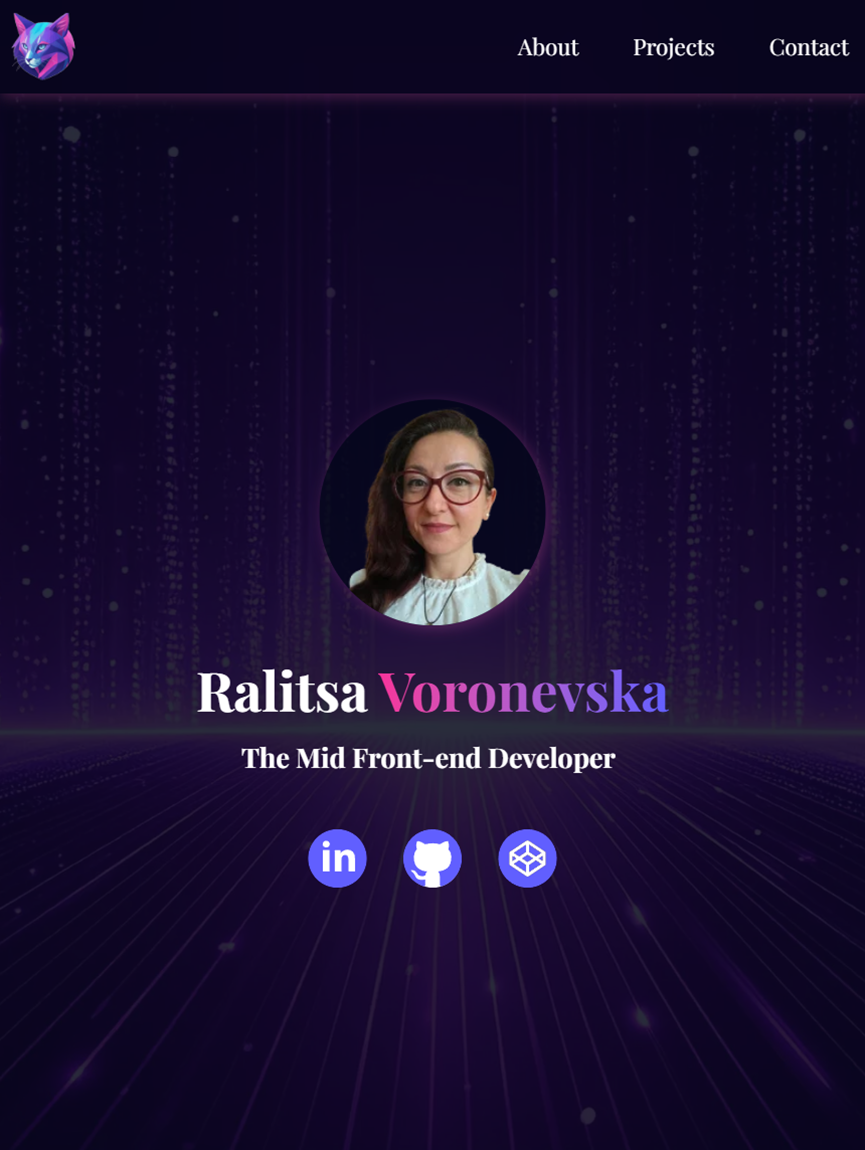
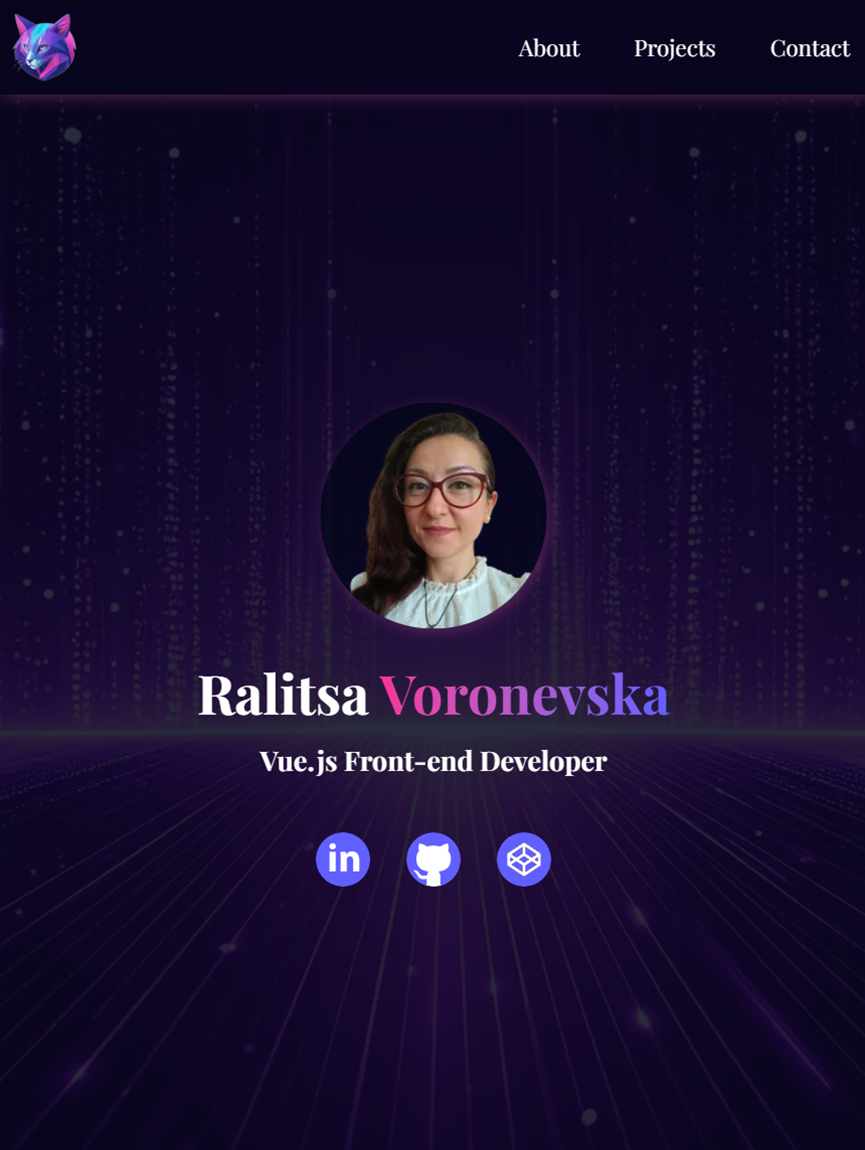
Polish About.vue

diff --git a/src/components/AboutMe.vue b/src/components/AboutMe.vue
@@ -8,19 +8,14 @@ const { aboutMeSubtitle, aboutMeDescription, skills, highlights } =
 
 <template>
   <!-- start of About Section -->
-  <section
-    id="about"
-    class="about-me mx-auto max-w-6xl px-4 py-8 text-slate-900 sm:px-6 md:py-12 lg:px-8 dark:text-slate-100"
-  >
+  <section id="about" class="about-me">
     <!-- headings -->
     <h2>About <span class="gradient-text">Me</span></h2>
     <h3>{{ aboutMeSubtitle }}</h3>
 
     <!-- Header: stacked + centered on mobile, side-by-side from sm: up -->
-    <div
-      class="mb-6 flex flex-col items-center gap-4 text-center sm:mb-8 sm:flex-row sm:items-start sm:gap-8 sm:text-left"
-    >
-      <HeroImage class="object-cover" />
+    <div class="hero-and-skills">
+      <HeroImage />
 
       <div class="rounded-lg w-full flex-1 shadow-3xl bg-slate-950/75 p-4">
         <p class="mb-6 leading-relaxed text-lg sm:leading-relaxed">
@@ -40,19 +35,13 @@ const { aboutMeSubtitle, aboutMeDescription, skills, highlights } =
     </div>
 
     <!-- Cards: 1 col on mobile, 2 on tablet, 3 from md: up -->
-    <div class="mb-6 grid grid-cols-1 gap-3 md:grid-cols-3">
-      <div
-        v-for="item in highlights"
-        :key="item.label"
-        class="rounded-lg shadow-3xl bg-slate-950/75 p-4"
-      >
-        <p
-          class="mb-1.5 flex items-center gap-1.5 text-xs text-slate-400 sm:text-[13px]"
-        >
+    <div class="highlights-container">
+      <div v-for="item in highlights" :key="item.label" class="highlight-card">
+        <p class="highlight-card-header">
           <span aria-hidden="true">{{ item.icon }}</span>
           {{ item.label }}
         </p>
-        <p class="text-sm leading-relaxed">{{ item.text }}</p>
+        <p class="highlight-card-text">{{ item.text }}</p>
       </div>
     </div>
 

diff --git a/src/assets/css/main.css b/src/assets/css/main.css
@@ -64,7 +64,7 @@
           @apply text-4xl md:text-5xl lg:text-6xl font-bold mb-2 md:mb-5;
         }
         h2 {
-          @apply text-xl md:text-2xl lg:text-3xl font-bold text-left mb-6 pl-4 md:pl-10 lg:pl-14;
+          @apply text-xl md:text-2xl lg:text-3xl font-bold mb-6;
         }
       }
     }
@@ -88,12 +88,23 @@
 
   /* About Me Section */
   .about-me {
-    @apply flex flex-col items-center justify-center text-center relative mx-3 pt-20 pb-20 scroll-mt-40;
-    .hero-skills-and-bio {
-      @apply flex flex-col lg:flex-row;
-    }
+    @apply flex flex-col items-center justify-center text-center relative pt-20 pb-20 scroll-mt-40
+    mx-auto max-w-6xl px-4 py-8 text-slate-900 sm:px-6 md:py-12 lg:px-8 dark:text-slate-100;
     .hero-and-skills {
-      @apply bg-slate-950/75 shadow-3xl rounded-2xl p-3 flex flex-col w-full lg:min-w-70 xl:min-w-90;
+      @apply mb-6 flex flex-col items-center gap-4 text-center sm:mb-8 sm:flex-row sm:items-start sm:gap-8 sm:text-left;
+    }
+
+    .highlights-container {
+      @apply mb-6 grid grid-cols-1 gap-3 md:grid-cols-3;
+      .highlight-card {
+        @apply rounded-lg shadow-3xl bg-slate-950/75 p-4;
+        .highlight-card-header {
+          @apply mb-1.5 flex items-center gap-1.5 text-xs text-slate-400 sm:text-[13px];
+        }
+        .highlight-card-text {
+          @apply text-sm leading-relaxed;
+        }
+      }
     }
     .btns-container {
       @apply flex items-center justify-center gap-2 my-4 mx-auto;

diff --git a/src/data/portfolio.ts b/src/data/portfolio.ts
@@ -121,7 +121,7 @@ export const PROJECTS: Project[] = [
     image: vuePortfolioImage,
     title: "Vue.js 3 Portfolio",
     description: "Original, built from scratch",
-    techDescription: "Modern Matrix-like Themed Portfolio",
+    techDescription: "Modern Matrix Themed Portfolio",
     techStack: [
       { name: "Vue.js", file_name: "vue-js" },
       { name: "Vite.js", file_name: "vite-js" },
@@ -201,7 +201,7 @@ export const PROJECTS: Project[] = [
   {
     image: monsterSlayerImage,
     title: "Monster Slayer Game",
-    description: "Give the Monster A Memorable Lesson",
+    description: "Give the Monster A Good Lesson",
     techDescription: "Battle sounds powered by Howler.js",
     techStack: [
       { name: "Vue.js", file_name: "vue-js" },
@@ -233,7 +233,7 @@ export const PROJECTS: Project[] = [
     image: pigGameImage,
     title: "Pig Game",
     description: "A Single Dice Game for two players",
-    techDescription: "Game sounds are powered by Howler.js",
+    techDescription: "Game sounds powered by Howler.js",
     techStack: [
       { name: "Vue.js", file_name: "vue-js" },
       { name: "Vite.js", file_name: "vite-js" },
